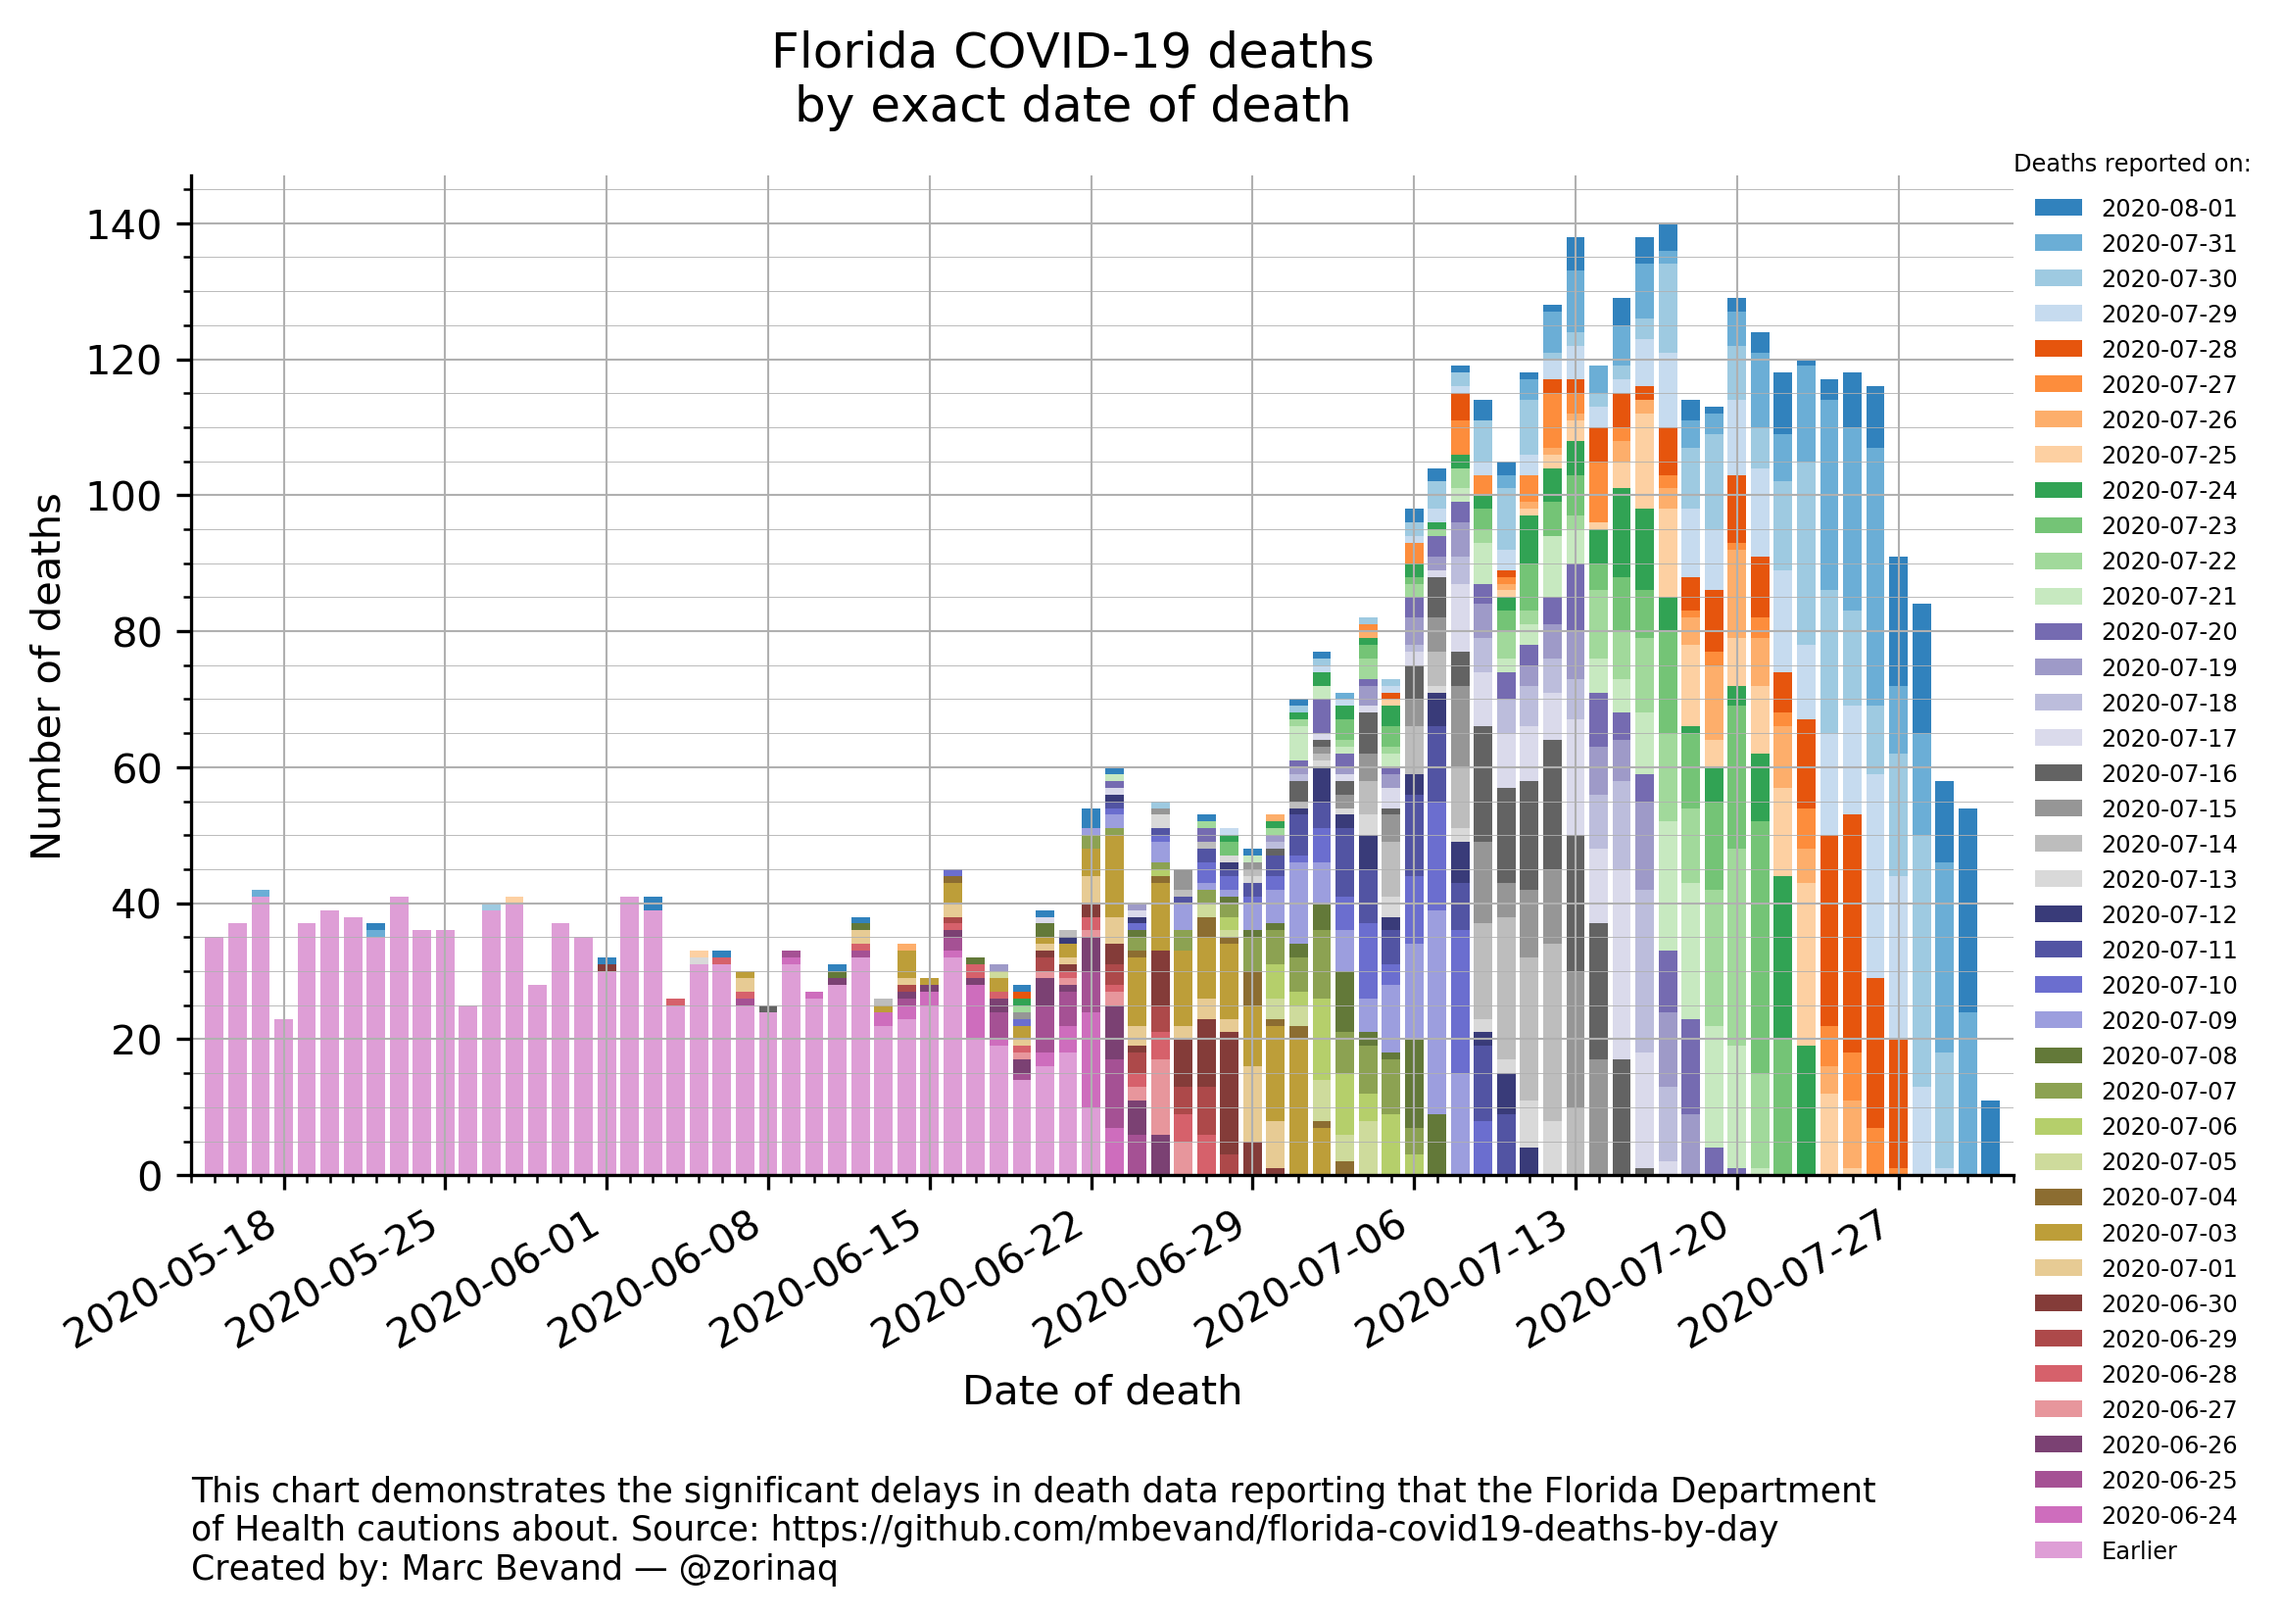
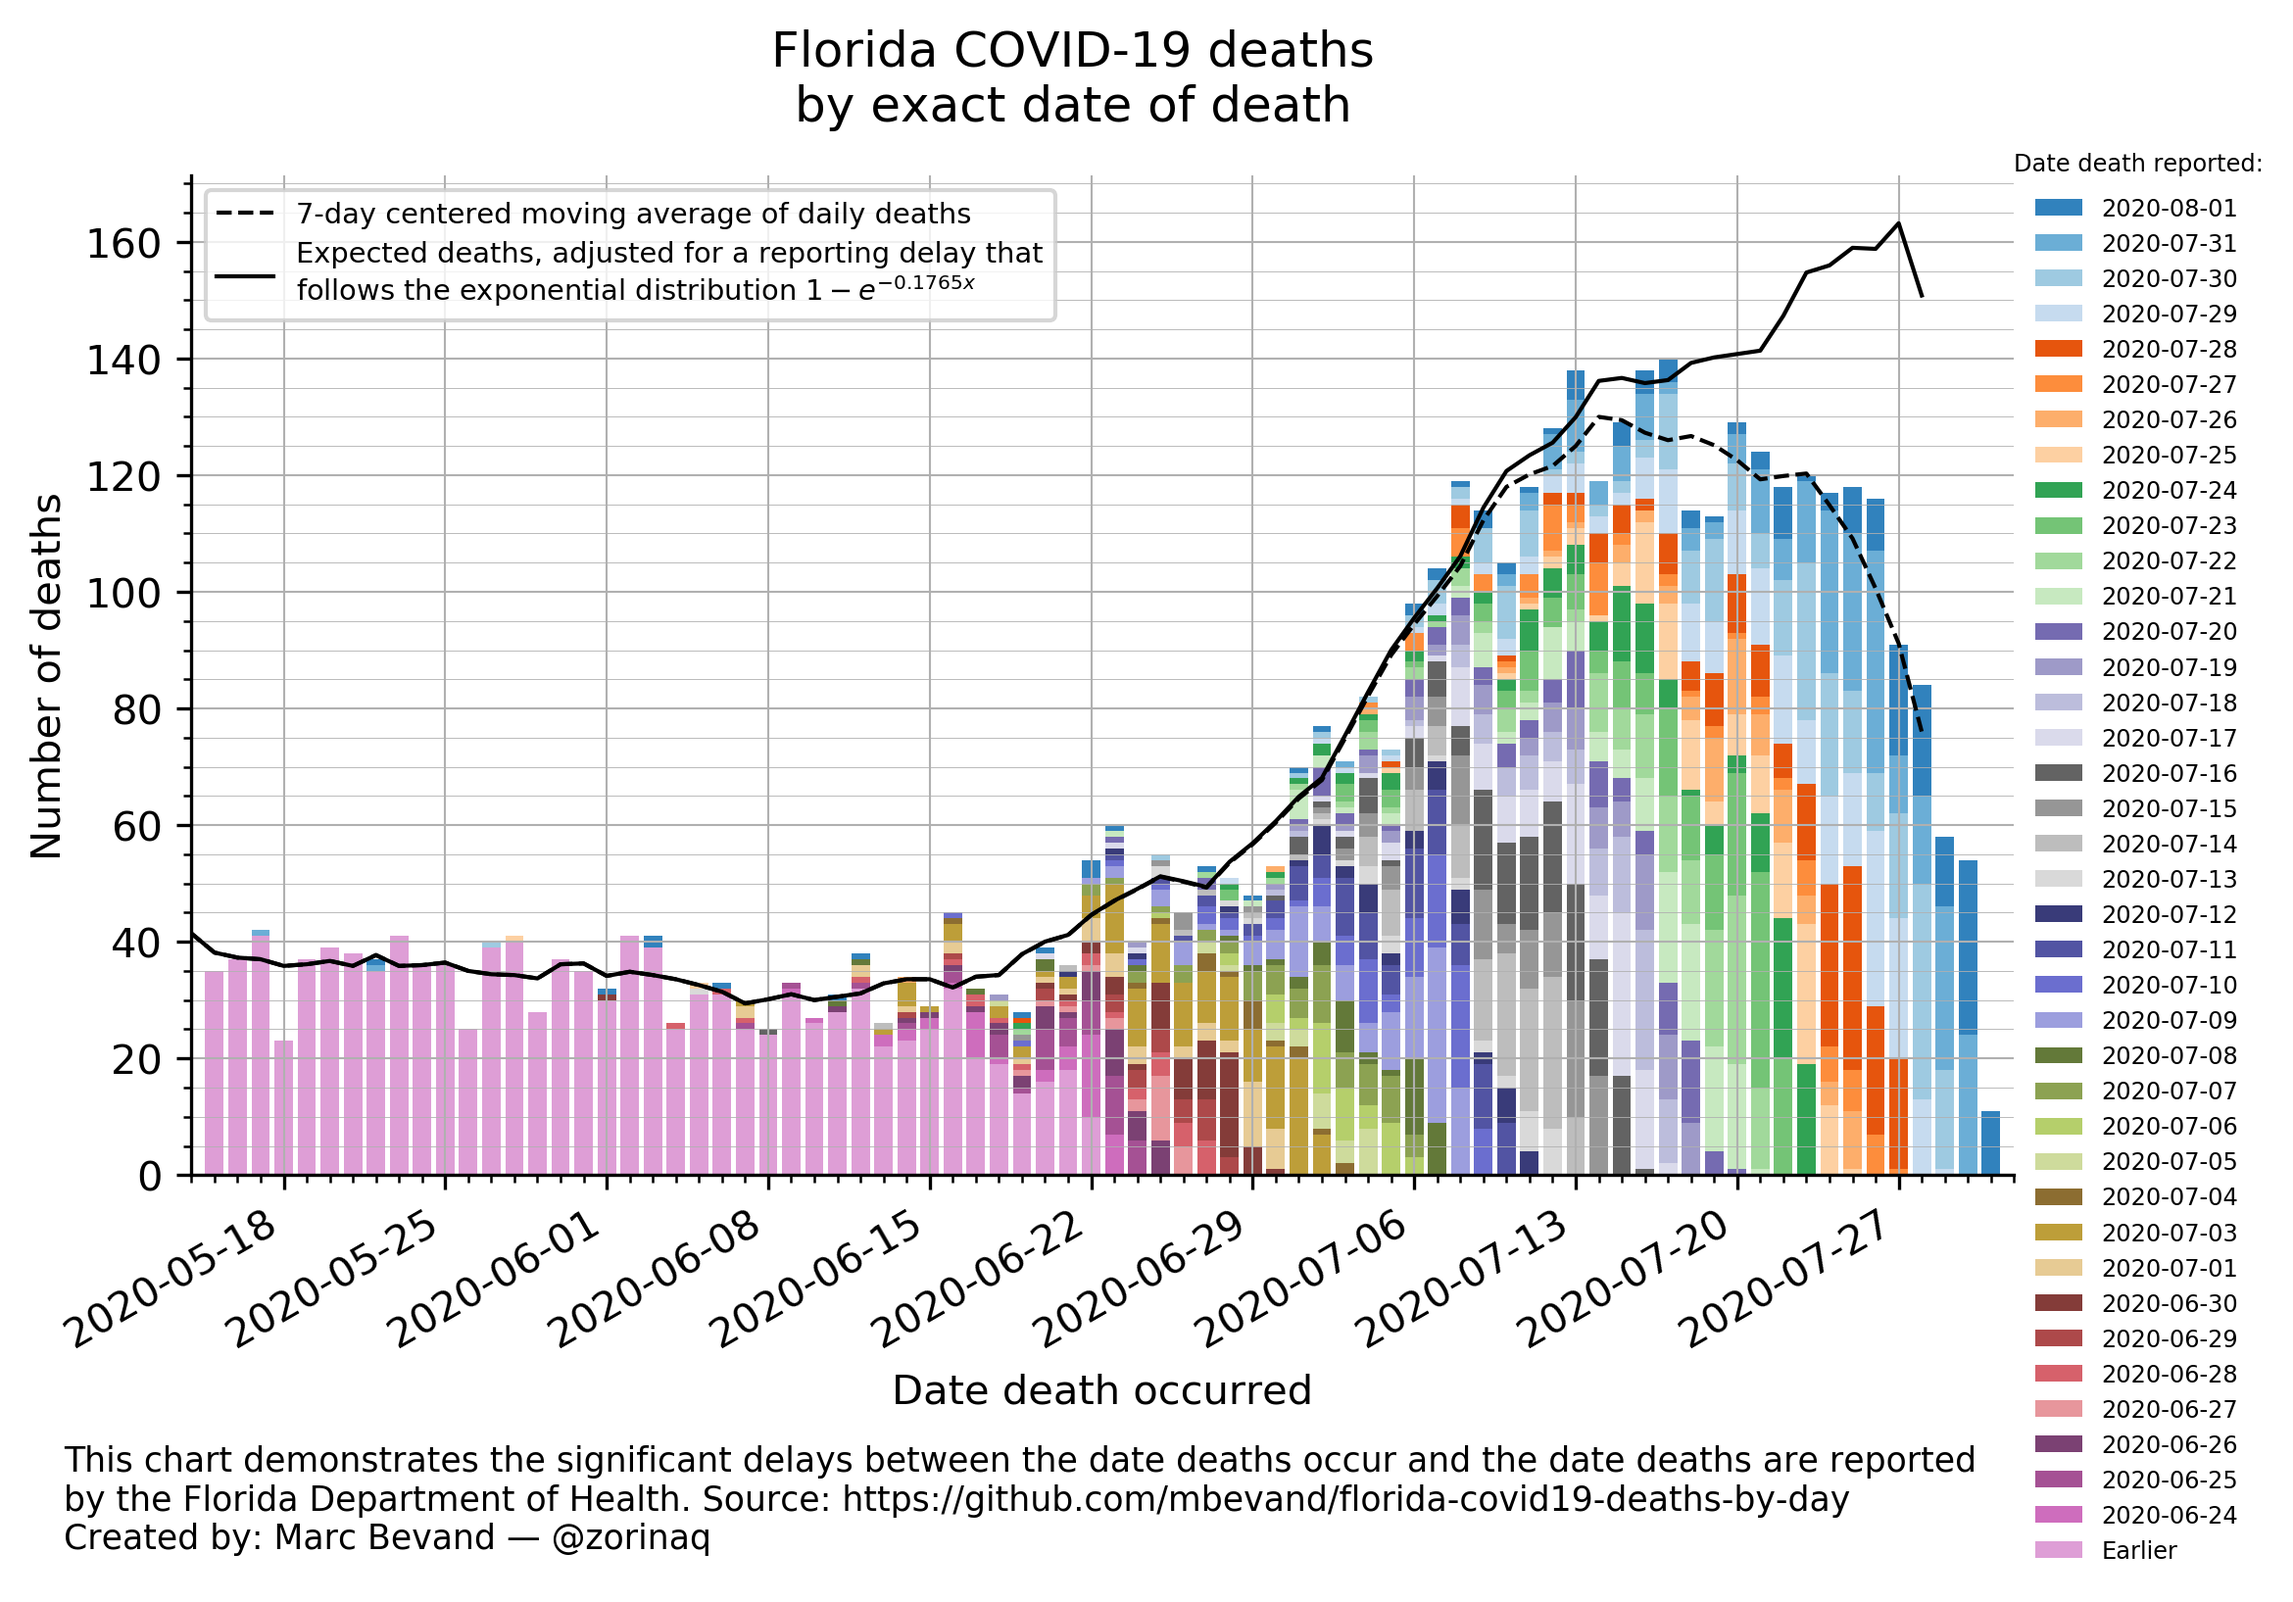
chart_bars: add 7-day CMA and expected deaths

diff --git a/README.md b/README.md
@@ -28,8 +28,10 @@ The leftmost curves are expected to establish new record-high numbers of deaths.
 ![Bar chart of deaths by day](chart_bars.png)
 
 This is a simple chart showing deaths by day, created by the script
-[chart_bars](chart_bars).  The coloring emphasizes the significant delays in
-death reporting.
+[chart_bars](chart_bars). The colors emphasize the significant delays in
+death reporting. Each day the state reports more deaths, a new "layer" of colors
+is added to the bars, with most deaths having occurred in recent days, and some
+deaths having occurred weeks earlier.
 
 ## Average reporting delay
 
